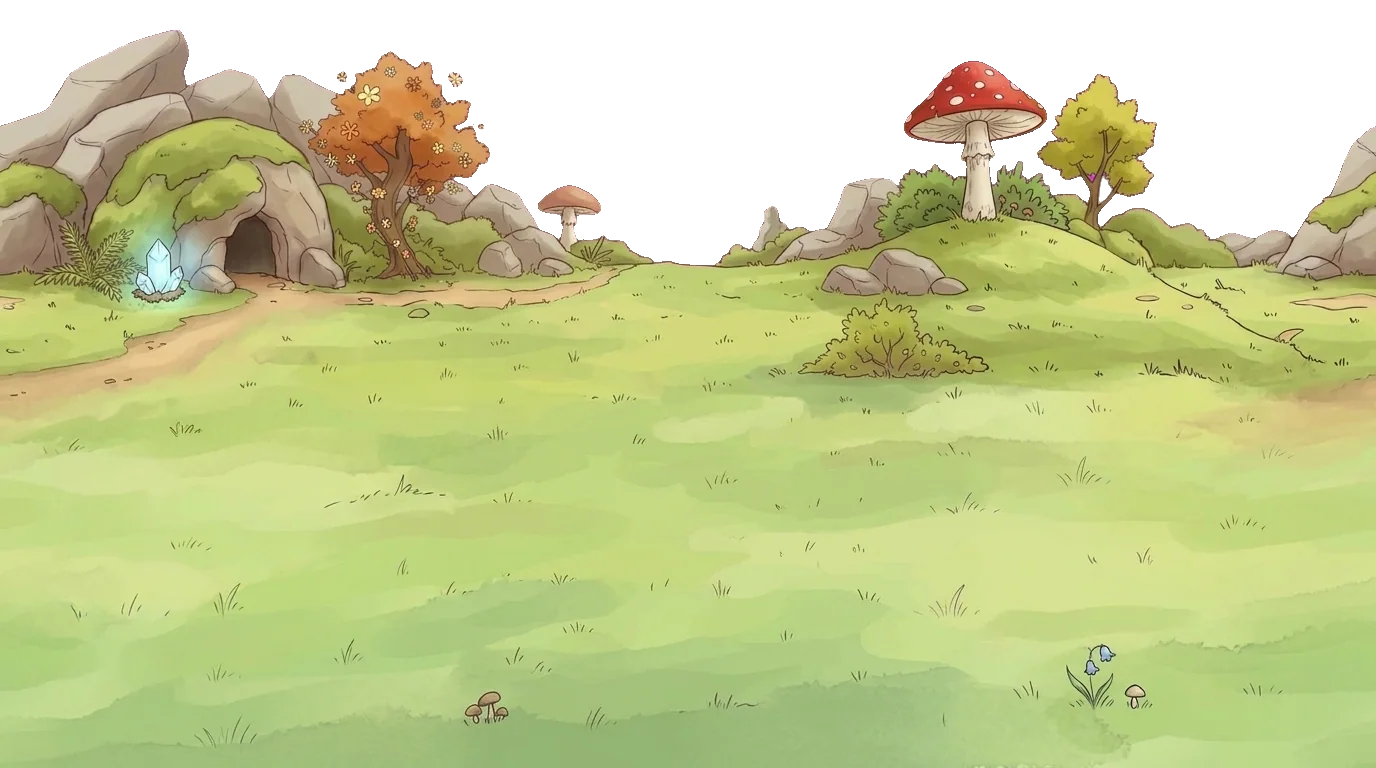
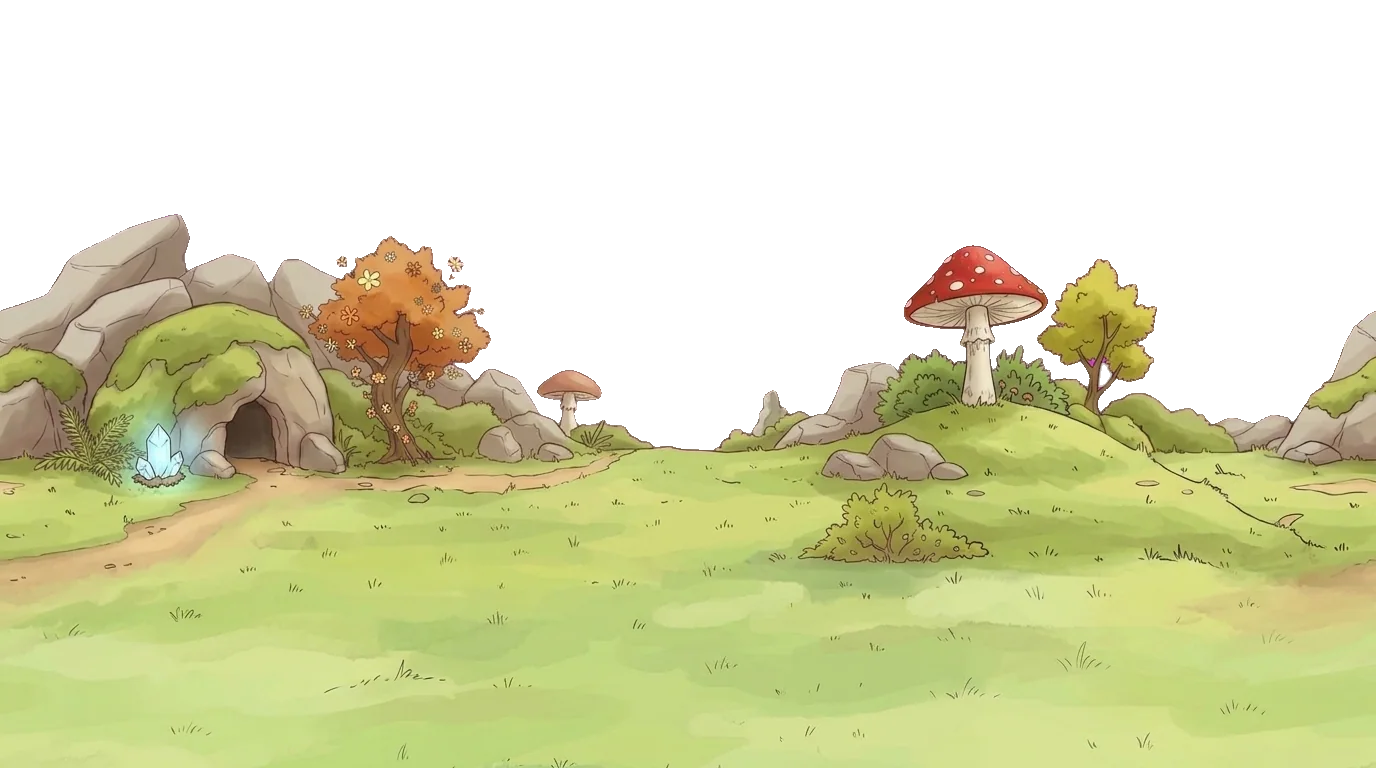
fix(valley): middle band down to 60 % and near band to 35 % from the bottom
Claude-Session: https://claude.ai/code/session_01MAZwqVJqrTUDA5csgByiYr

diff --git a/assets-src/PROMPTS.md b/assets-src/PROMPTS.md
@@ -466,8 +466,8 @@ flat storybook style and no longer apply.
 | `bg-planet-mid.jpg` | (the owner's picture, 2026-10-28) soft yellow-green hills with small mushrooms and flower bushes, then a wide calm grass field | full | done 2026-10-28 (seam by Gemini, tint cleaned, moved down 200 px) |
 | `bg-planet-near.jpg` | (the owner's picture, 2026-10-28) a sandy path with pebbles, small crystals and mushrooms along its upper edge, calm grass below | full | done 2026-10-28 (seam by Gemini, tint cleaned, moved down 240 px: the path's middle at 89 % of the stage, where Tapko walks) |
 | `bg-dragons-far.jpg` | a peaceful dragon valley at sunset, warm orange and pink colours in the sky, the sun hidden behind the mountains, soft rounded mountains and a waterfall | full | done 2026-10-23 |
-| `bg-dragons-mid.jpg` | rounded rocky hills with cozy cave entrances and soft moss | 45 % | |
-| `bg-dragons-near.jpg` | grass with orange tips, round pebbles, a big fern, a broken eggshell with orange spots, a mossy log, a small glowing crystal, a dry reed and a curled leaf plant | 25 % | done 2026-10-23 |
+| `bg-dragons-mid.jpg` | (the owner's picture, 2026-10-29) grey rocks with moss, a cave with a glowing crystal, a tree with orange blossoms, a big fly agaric on a grassy hill, then a wide calm meadow | full | done 2026-10-29 (seam by Gemini, moved down 185 px: its top at 60 % from the bottom) |
+| `bg-dragons-near.jpg` | (the owner's picture, 2026-10-29) grass with orange tips, pebbles, flowers, a fern, a small fly agaric and a blue and red crystal, then calm grass (no eggshells) | full | done 2026-10-29 (seam by Gemini, moved down 343 px: its top at 35 % from the bottom) |
 | `bg-egg-far.jpg` | a bright morning valley with a long gentle grassy slope going down from left to right, a few trees and a blue river far away | full | done 2026-10-23 |
 | `bg-egg-mid.jpg` | a bush with yellow flowers, a leaning tree, a mossy boulder, a haystack, a pine, a bush with pink flowers, a signpost with empty boards and a rocky outcrop with ferns | 50 % | done 2026-10-23 |
 | `bg-egg-near.jpg` | only plants and small things: grass, yellow flowers, a pink wild rose, foxtail, a fern, a broken spotted eggshell, daisies, a mushroom and a thistle; no big rocks | 20 % | done 2026-10-23 |
